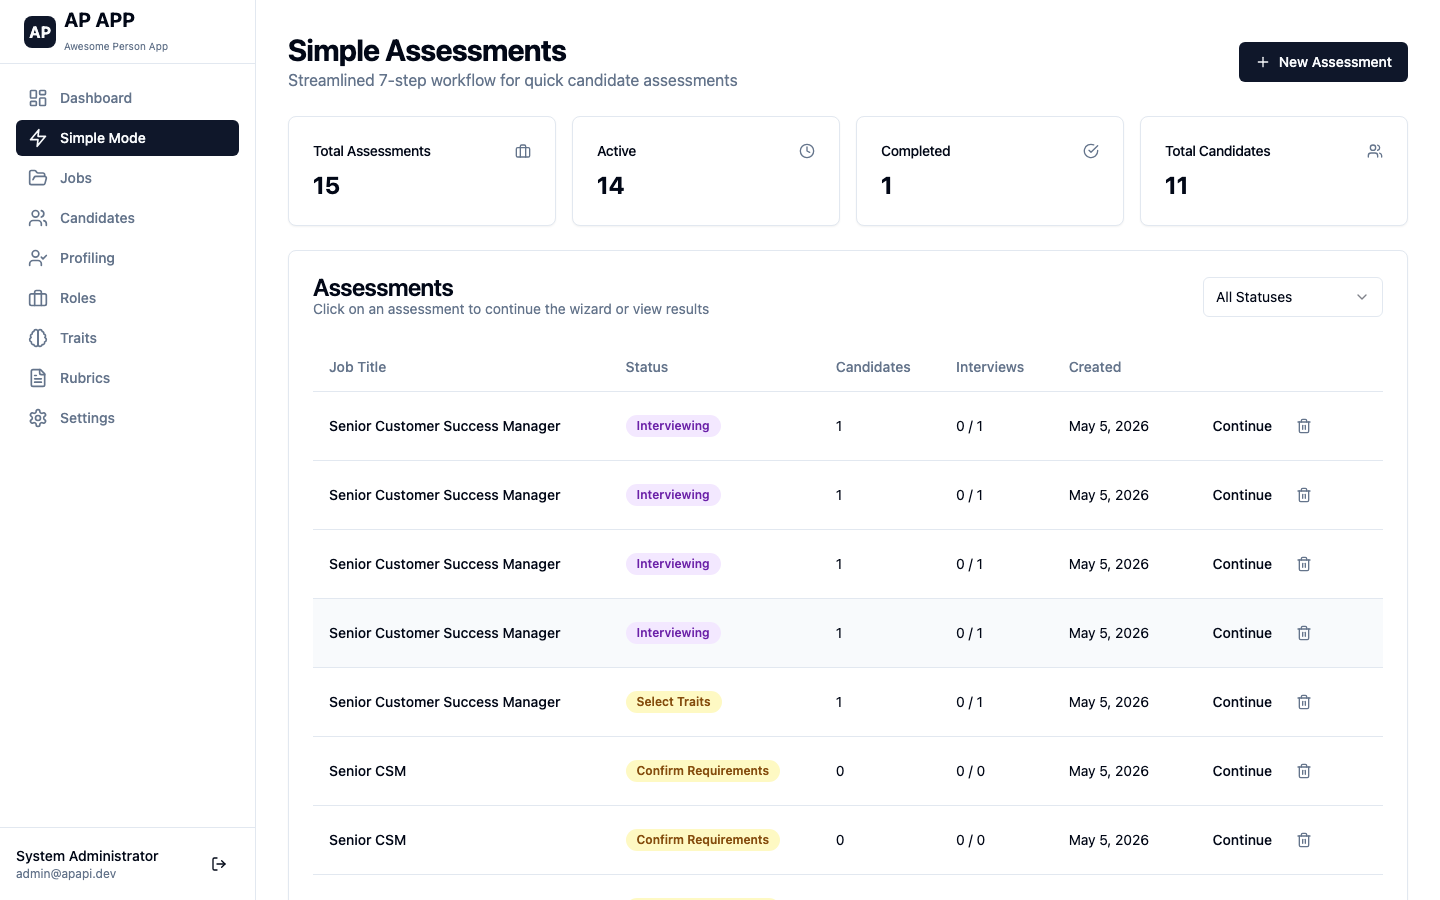
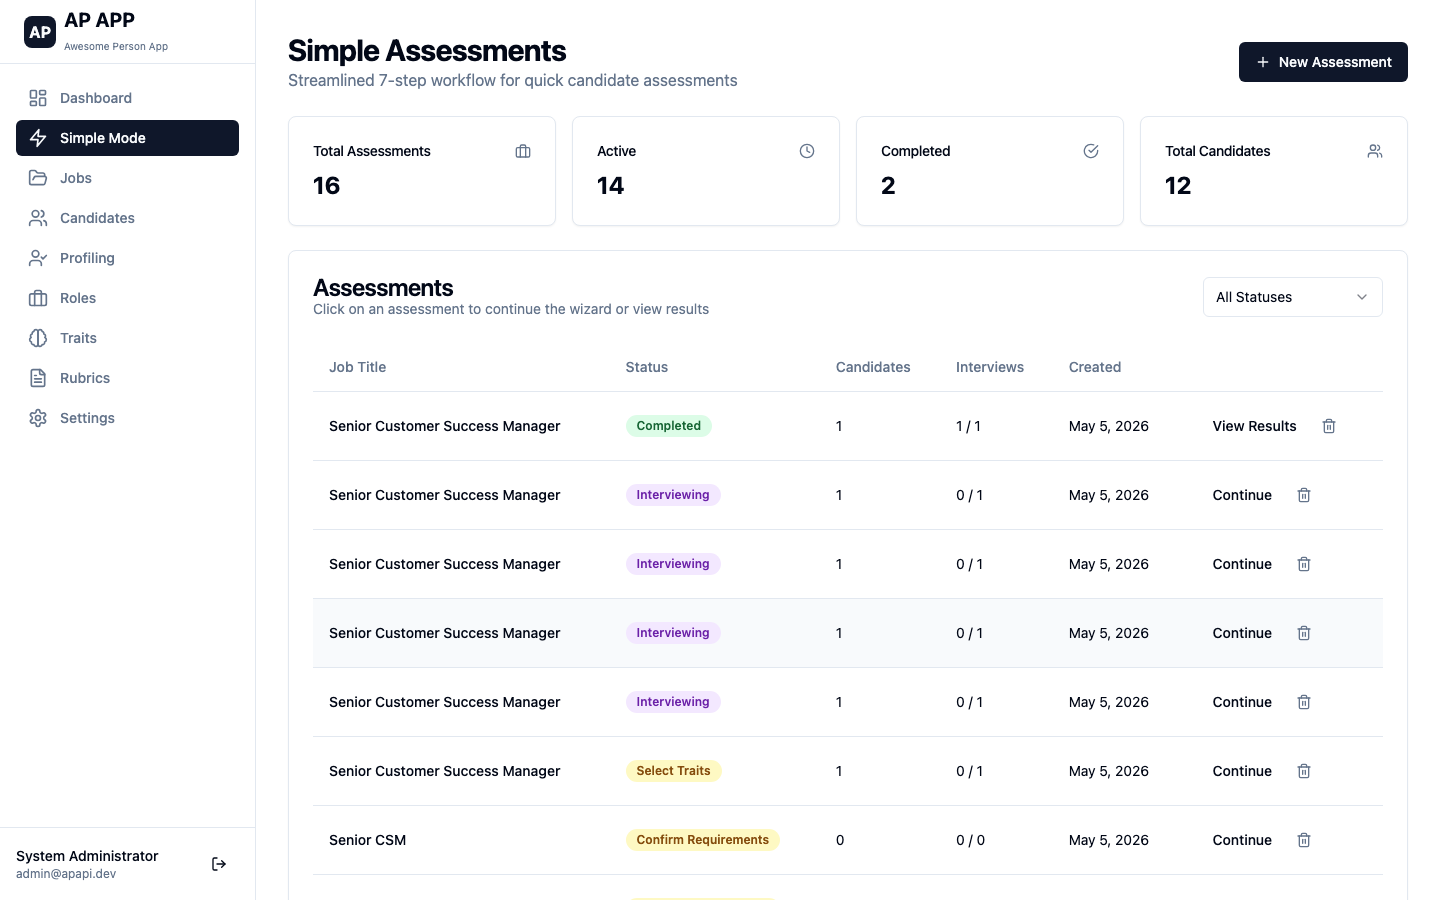
Docs: Refresh demo deck with composite-scale + aggregator-tile fixes
Re-ran the Playwright walkthrough after the bug fixes in 4322794.
Slide 21 now shows the corrected results page:

  * Composite score reads "50/100" instead of the prior "122.5/10"
  * "Interviews Completed" tile reads 1 instead of 0
  * Slide-21 caption updated; the "NB: known aggregator bug" disclaimer
    that was added when those bugs shipped is no longer needed
  * Several mid-flow screenshots refreshed alongside (mostly to keep
    timestamps consistent across the deck)

README "Known issues" section pruned to drop the two bullets that are
now resolved. The "Frontend / API contract drift" lesson stays — it's
the load-bearing thing for future contributors.

(Also dropped the duplicate slide 22 — it was the same frame as slide 21.)

diff --git a/docs/demo/captions.js b/docs/demo/captions.js
@@ -103,6 +103,6 @@ window.SLIDES = [
   {
     "filename": "21-results-page.png",
     "title": "Results \u2014 composite score, recommendation, and PDF export",
-    "narrative": "The headline 0\u201310 number on the candidate row is the calibrated trait composite. The amber Hold badge is the recommendation \u2014 note this isn't just composite > X; it factors in evidence quality, the behavioral floor, and any counter-indicator flags. The Export PDF button (top-right) generates the defensible-record artifact: every trait score, the evidence chain, the recommendation rationale, and any compliance flags. That's the file you hand to a hiring committee \u2014 and the one a regulator would want to see. (NB: stat tiles say 0/0/0 \u2014 that's a known aggregator bug; the per-candidate row is correct.)"
+    "narrative": "The headline composite is on the documented 0\u2013100 scale (Sarah lands at 50/100 \u2192 HOLD; Strong Hire is 75+, Hire is 60+). The Hold badge isn't just composite > X \u2014 it factors in evidence quality, the behavioral floor, and any counter-indicator flags. The Total Candidates / Interviews Completed / Strong Hires / Hires tiles aggregate the cohort. The Export PDF button (top-right) generates the defensible-record artifact: every trait score, the evidence chain, the recommendation rationale, and any compliance flags. That's the file you hand to a hiring committee \u2014 and the one a regulator would want to see."
   }
 ];

diff --git a/README.md b/README.md
@@ -609,17 +609,9 @@ docker-compose up -d db redis backend celery frontend
 
 This is an open-source project that ships with rough edges. Calling them out so you don't hit them and assume the platform is broken.
 
-### Visible in the current demo deck
-
-- **Composite-score scale mismatch** (results page).
-  The "Composite Score" column on the Simple Mode results page shows a value like `122.5/10` instead of `82/100`. The `/100` recommendation thresholds are correct (`STRONG_HIRE ≥ 75`, `HIRE ≥ 60`, etc.), but either the trait-score calibration in `backend/app/services/score_calibrator.py` is producing values above the documented 1–5 trait-score range, or the frontend is mislabeling the scale. Either way, the recommendation badge derived from the same number *is* correct, so trust the badge over the headline number until this is fixed. Visible at [`docs/demo/screenshots/21-results-page.png`](docs/demo/screenshots/21-results-page.png).
-
-- **Aggregator tiles always show 0** (results page).
-  The Total Candidates / Interviews Completed / Strong Hires / Hires tiles at the top of the Simple Mode results page don't reflect actual state. Per-candidate row data in the table below them *is* correct, so the assessment is fine — the tiles are just wired to a counter that isn't being incremented when interviews complete. Likely a missing `assessment.qualified_candidates` and `assessment.total_candidates` update path in `backend/app/api/v1/simple.py`. Same screenshot.
-
 ### Frontend / API contract drift
 
-The demo run in May 2026 surfaced several silent contract mismatches between the FastAPI backend and the reference React frontend (the candidate landing page crashed with TypeError on every magic-link visit; Step 2 of the wizard crashed on every successful LLM extraction; etc.). These have been fixed in the commits leading up to `1bb310b`, but the lesson is general: **if you find another silent crash in the wizard, suspect a Pydantic field name mismatch first**. The backend ships canonical names; the frontend was sometimes written against names that don't exist server-side. We've started shipping both naming conventions on the public-interview responses (`progress` + `overall_progress`, `is_complete` + `interview_complete`) — the same pattern is a good fix template.
+The demo run in May 2026 surfaced several silent contract mismatches between the FastAPI backend and the reference React frontend (the candidate landing page crashed with TypeError on every magic-link visit; Step 2 of the wizard crashed on every successful LLM extraction; the candidate's progress bar showed `NaN%`; the composite score on the results page rendered as `122.5/10`; etc.). These were fixed in commits `97af43b` through `4322794`, but the underlying lesson is general: **if you find another silent crash or wrong number in the wizard, suspect a Pydantic field name mismatch first**. The backend ships canonical names; the frontend was sometimes written against names that don't exist server-side, or against scales that don't match. We've started shipping both naming conventions on the public-interview responses (`progress` + `overall_progress`, `is_complete` + `interview_complete`) — the same pattern is a good fix template, and easier than asking the frontend or third-party clients to migrate.
 
 ### Documented but not implemented
 
